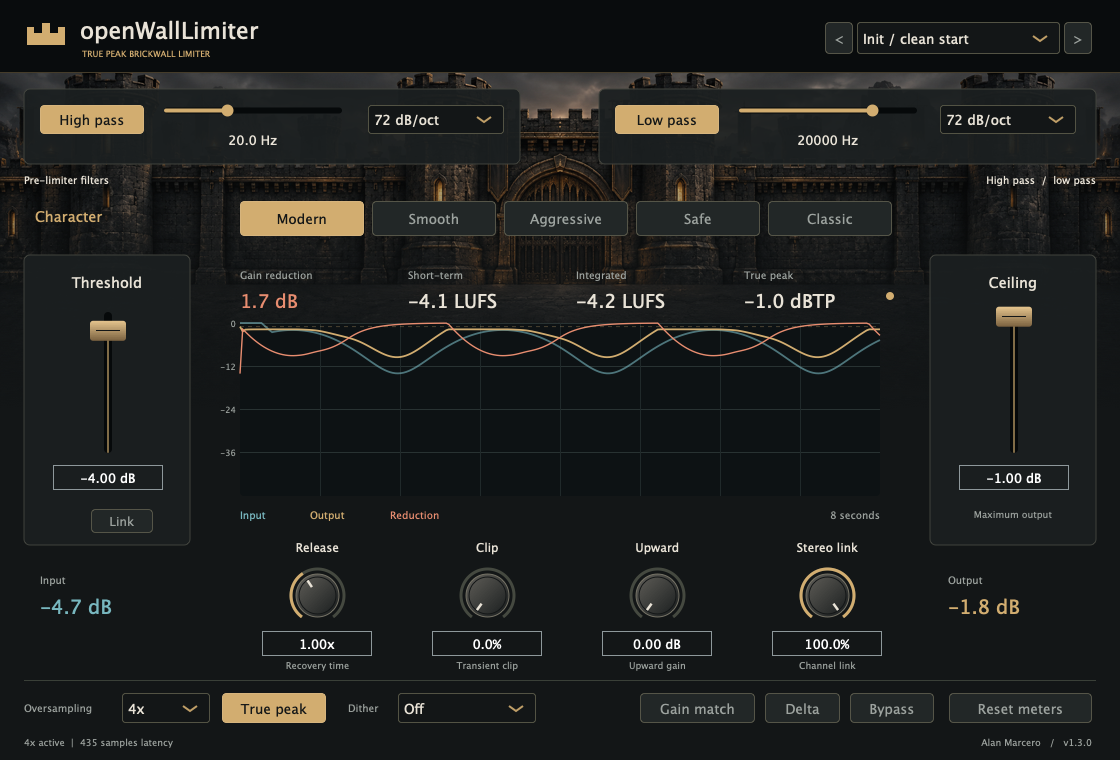
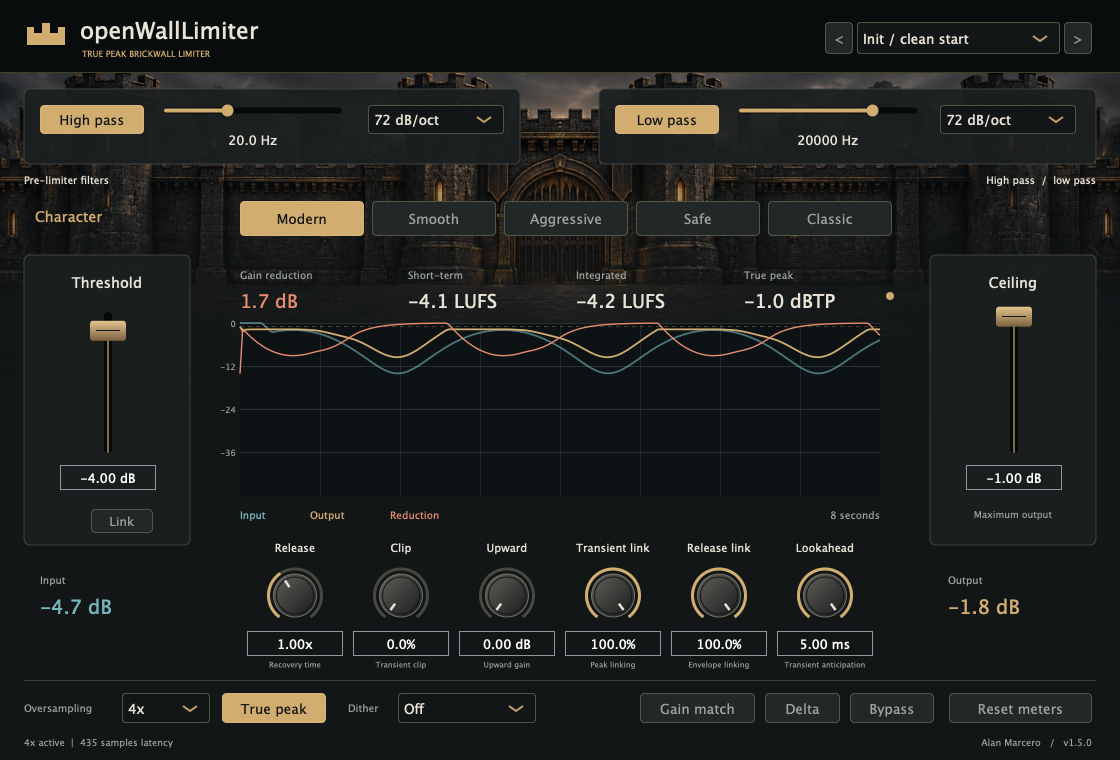
feat: add linked release and lookahead controls

Changed region(s): [[0.2188, 0.6961, 0.7812, 0.8776]]

diff --git a/Source/Plugin/PluginEditor.cpp b/Source/Plugin/PluginEditor.cpp
@@ -107,7 +107,7 @@ void WallEditor::slider(const char *id, const char *suffix, bool rotary) {
     s->setComponentID(id);
     s->setName(id);
     s->setSliderStyle(rotary ? juce::Slider::RotaryHorizontalVerticalDrag : juce::Slider::LinearVertical);
-    s->setTextBoxStyle(juce::Slider::TextBoxBelow, false, 110, 25);
+    s->setTextBoxStyle(juce::Slider::TextBoxBelow, false, 96, 25);
     s->setTextValueSuffix(suffix);
     s->setNumDecimalPlacesToDisplay(1);
     s->setDoubleClickReturnValue(true, wallProcessor.parameters.getParameter(id)->convertFrom0to1(
@@ -145,6 +145,8 @@ WallEditor::WallEditor(WallProcessor &p) : AudioProcessorEditor(p), wallProcesso
     slider("clip", "%", true);
     slider("upward", " dB", true);
     slider("stereo_link", "%", true);
+    slider("lookahead_ms", " ms", true);
+    slider("release_link", "%", true);
     slider("highpass_hz", " Hz", false);
     slider("lowpass_hz", " Hz", false);
     for (auto id : {"highpass_hz", "lowpass_hz"})
@@ -164,6 +166,9 @@ WallEditor::WallEditor(WallProcessor &p) : AudioProcessorEditor(p), wallProcesso
     buttons["delta"]->setTooltip("Listen to processed output minus the latency-aligned original. This "
                                  "monitoring signal can exceed the output ceiling.");
     buttons["gain_match"]->setTooltip("Remove threshold makeup gain for level-matched comparison.");
+    sliders["stereo_link"]->setTooltip("Transient Link blends peak detection across channels before gain reduction.");
+    sliders["release_link"]->setTooltip("Release Link blends each channel's recovery envelope toward shared recovery.");
+    sliders["lookahead_ms"]->setTooltip("Maximum transient anticipation. Each limiter mode's attack window is capped by this value; host latency stays fixed at 5 ms.");
     const std::array<const char *, 5> hints{
         "2.2 ms attack, 20 ms hold. Transients release faster than sustained limiting.",
         "4.5 ms attack, 24 ms hold, and a rounded release stage for transparent dynamics.",
@@ -273,10 +278,12 @@ void WallEditor::resized() {
     sliders["threshold"]->setBounds(53, 300, 110, 190);
     sliders["ceiling"]->setBounds(959, 300, 110, 190);
     link.setBounds(91, 509, 62, 24);
-    sliders["release"]->setBounds(260, 560, 115, 96);
-    sliders["clip"]->setBounds(430, 560, 115, 96);
-    sliders["upward"]->setBounds(600, 560, 115, 96);
-    sliders["stereo_link"]->setBounds(770, 560, 115, 96);
+    sliders["release"]->setBounds(244, 560, 102, 96);
+    sliders["clip"]->setBounds(350, 560, 102, 96);
+    sliders["upward"]->setBounds(456, 560, 102, 96);
+    sliders["stereo_link"]->setBounds(562, 560, 102, 96);
+    sliders["release_link"]->setBounds(668, 560, 102, 96);
+    sliders["lookahead_ms"]->setBounds(774, 560, 102, 96);
     combos["oversampling"]->setBounds(122, 693, 88, 30);
     buttons["true_peak"]->setBounds(222, 693, 104, 30);
     combos["dither"]->setBounds(398, 693, 138, 30);
@@ -385,13 +392,14 @@ void WallEditor::paint(juce::Graphics &g) {
         g.drawEllipse(884.0f, 290.0f, 12.0f, 12.0f, 1.2f);
     }
     drawGraph(g);
-    const std::array<const char *, 4> names{"Release", "Clip", "Upward", "Stereo link"};
-    const std::array<const char *, 4> desc{"Recovery time", "Transient clip", "Upward gain",
-                                           "Channel link"};
-    for (size_t i = 0; i < 4; ++i) {
-        int x = 250 + int(i) * 170;
-        text(g, names[i], {x, 537, 135, 20}, 14, paper, juce::Justification::centred);
-        text(g, desc[i], {x, 656, 135, 17}, 11, muted, juce::Justification::centred);
+    const std::array<const char *, 6> names{"Release", "Clip", "Upward", "Transient link", "Release link",
+                                            "Lookahead"};
+    const std::array<const char *, 6> desc{"Recovery time", "Transient clip", "Upward gain", "Peak linking",
+                                           "Envelope linking", "Transient anticipation"};
+    for (size_t i = 0; i < names.size(); ++i) {
+        const int x = 244 + int(i) * 106;
+        text(g, names[i], {x, 537, 102, 20}, 13, paper, juce::Justification::centred);
+        text(g, desc[i], {x, 656, 102, 17}, 9, muted, juce::Justification::centred);
     }
     text(g, "Input", {40, 570, 70, 20}, 12, muted);
     text(g, reading(wallProcessor.inputDb.load(), " dB"), {40, 592, 140, 28}, 23, blue);

diff --git a/Tests/PluginTests.cpp b/Tests/PluginTests.cpp
@@ -23,6 +23,10 @@ int main(int argc, char **argv) {
         set(p, "true_peak", 0);
         p.prepareToPlay(48000, 256);
         require(p.getLatencySamples() > 0, "lookahead latency missing");
+        const int fixedLatency = p.getLatencySamples();
+        set(p, "lookahead_ms", 0.0f);
+        require(p.getLatencySamples() == fixedLatency, "lookahead automation keeps host latency fixed");
+        set(p, "lookahead_ms", 5.0f);
         juce::AudioBuffer<float> b(2, 256);
         juce::MidiBuffer midi;
         for (int j = 0; j < 100; j++) {
@@ -40,6 +44,8 @@ int main(int argc, char **argv) {
         set(p, "highpass_hz", 37);
         set(p, "lowpass_slope", 4);
         set(p, "mode", 3);
+        set(p, "lookahead_ms", 2.5f);
+        set(p, "release_link", 62.0f);
         juce::MemoryBlock state;
         p.getStateInformation(state);
         WallProcessor restored;
@@ -51,10 +57,36 @@ int main(int argc, char **argv) {
                                  restored.parameters.getParameter(identified->paramID)->getValue()) < 1e-6f,
                     "state recall mismatch");
         }
+        require(std::abs(restored.parameters.getRawParameterValue("lookahead_ms")->load() - 2.5f) < .02f,
+                "lookahead state recall");
+        require(std::abs(restored.parameters.getRawParameterValue("release_link")->load() - 62.0f) < .02f,
+                "release link state recall");
+        auto legacy = p.parameters.copyState();
+        for (int i = legacy.getNumChildren() - 1; i >= 0; --i) {
+            auto child = legacy.getChild(i);
+            const auto id = child.getProperty("id").toString();
+            if (id == "lookahead_ms" || id == "release_link")
+                legacy.removeChild(i, nullptr);
+        }
+        juce::MemoryBlock oldState;
+        if (auto xml = legacy.createXml())
+            p.copyXmlToBinary(*xml, oldState);
+        else
+            throw std::runtime_error("legacy state serialization");
+        WallProcessor migrated;
+        migrated.setStateInformation(oldState.getData(), int(oldState.getSize()));
+        require(std::abs(migrated.parameters.getRawParameterValue("lookahead_ms")->load() - 5.0f) < .02f,
+                "legacy state uses full lookahead");
+        require(std::abs(migrated.parameters.getRawParameterValue("release_link")->load()) < .02f,
+                "legacy state keeps independent release envelopes");
         auto editor = std::unique_ptr<juce::AudioProcessorEditor>(p.createEditor());
         require(editor->getWidth() >= 1000, "editor size");
         checks::controls(p, *editor);
         p.applyPreset(1);
+        require(std::abs(p.parameters.getRawParameterValue("lookahead_ms")->load() - 5.0f) < .02f,
+                "preset restores default lookahead");
+        require(std::abs(p.parameters.getRawParameterValue("release_link")->load() - 100.0f) < .02f,
+                "preset restores default release link");
         juce::File output =
             juce::File::getCurrentWorkingDirectory().getChildFile(argc > 1 ? argv[1] : "docs/screenshots");
         output.createDirectory();

diff --git a/Source/Core/Limiter.cpp b/Source/Core/Limiter.cpp
@@ -122,6 +122,8 @@ void Limiter::setSettings(const Settings& requested) noexcept {
     settings_.clip = bounded(requested.clip, 0, 1, 0);
     settings_.upwardDb = bounded(requested.upwardDb, 0, 12, 0);
     settings_.stereoLink = bounded(requested.stereoLink, 0, 1, 1);
+    settings_.releaseLink = bounded(requested.releaseLink, 0, 1, 0);
+    settings_.lookaheadMs = bounded(requested.lookaheadMs, 0, 5, 5);
     const auto mode = requested.mode >= Mode::Modern && requested.mode <= Mode::Classic
         ? requested.mode : Mode::Modern;
     if (mode != settings_.mode) {
@@ -145,8 +147,9 @@ void Limiter::setSettings(const Settings& requested) noexcept {
     classicStepDb_ = profile.classicDbPerSecond / (sampleRate_ * settings_.release);
     clipDb_ = profile.clipDb * settings_.clip;
     hold_ = static_cast<int>(std::round(sampleRate_ * profile.hold * .001));
-    const auto attack = std::clamp(static_cast<int>(std::round(sampleRate_ * profile.attack * .001)), 1,
-                                   std::max(latency_, 1));
+    const auto profileAttack = static_cast<int>(std::round(sampleRate_ * profile.attack * .001));
+    const auto requestedLookahead = static_cast<int>(std::round(sampleRate_ * settings_.lookaheadMs * .001));
+    const auto attack = std::clamp(std::min(profileAttack, requestedLookahead), 1, std::max(latency_, 1));
     if (attack != attack_ && latency_ > 0) {
         // Two cascaded averages span attack + 1 samples and give an S-shaped gain ramp.
         attack_ = attack;
@@ -227,11 +230,18 @@ void Limiter::process(float* left, float* right, int samples) noexcept {
             target[c] = std::min(1.0, ceiling_ * allowance[c] / std::max(std::abs(input[c]), 1e-30));
         }
         const auto linked = std::min(target[0], target[1]);
+        std::array<double, 2> releaseAmounts{};
         for (int c = 0; c < channelCount_; ++c) {
             auto& channel = channels_[c];
             const auto safeGain = target[c] + settings_.stereoLink * (linked - target[c]);
             const auto held = channel.minimum.push(safeGain, time_, window);
-            const auto envelope = dbGain(-releaseDb(channel, -20 * std::log10(std::max(held, 1e-30))));
+            releaseAmounts[c] = releaseDb(channel, -20 * std::log10(std::max(held, 1e-30)));
+        }
+        const auto sharedRelease = channelCount_ == 2 ? std::max(releaseAmounts[0], releaseAmounts[1]) : releaseAmounts[0];
+        for (int c = 0; c < channelCount_; ++c) {
+            auto& channel = channels_[c];
+            const auto linkedRelease = releaseAmounts[c] + settings_.releaseLink * (sharedRelease - releaseAmounts[c]);
+            const auto envelope = dbGain(-linkedRelease);
             channel.gains[time_ % gainWindow] = channel.second.push(channel.first.push(envelope));
             const auto gain = channel.gains[(time_ + gainWindow - gainDelay) % gainWindow];
             minimumGain = std::min(minimumGain, gain);

diff --git a/Tests/LimiterTests.cpp b/Tests/LimiterTests.cpp
@@ -124,6 +124,28 @@ void stereo() {
     require(left == mono && right == mono, "dual mono matches mono");
 }
 
+void stereoReleaseLink() {
+    auto renderRight = [](float releaseLink) {
+        wall::Settings settings;
+        settings.mode = wall::Mode::Smooth;
+        settings.ceilingDb = -6;
+        settings.stereoLink = 0;
+        settings.releaseLink = releaseLink;
+        wall::Limiter limiter;
+        limiter.prepare(48000, 2);
+        limiter.setSettings(settings);
+        std::vector<float> left(8000, 0), right(8000, .2f);
+        left[2000] = 4;
+        limiter.process(left.data(), right.data(), static_cast<int>(left.size()));
+        return right;
+    };
+    const auto independent = renderRight(0);
+    const auto linked = renderRight(1);
+    const auto peakOutput = static_cast<std::size_t>(2000 + 240);
+    require(std::abs(independent[peakOutput] - .2f) < 1e-6f, "independent release leaves the quiet channel alone");
+    require(linked[peakOutput] < independent[peakOutput] * .9f, "release link shares the other channel's recovery attenuation");
+}
+
 void silenceInvalidAndAllocation() {
     wall::Limiter limiter;
     limiter.prepare(48000, 2);
@@ -146,6 +168,8 @@ void silenceInvalidAndAllocation() {
     s.clip = -100;
     s.upwardDb = nan;
     s.stereoLink = inf;
+    s.releaseLink = inf;
+    s.lookaheadMs = inf;
     s.mode = static_cast<wall::Mode>(999);
     allocations = 0;
     countAllocations = true;
@@ -229,6 +253,9 @@ void anticipatedGainIsSmooth() {
     for (int i = 1001; i < 1000 + latency; ++i)
         largestStep = std::max(largestStep, std::abs(output[i] - output[i - 1]));
     require(largestStep < .002f, "lookahead gain changes smoothly across anticipation");
+    s.lookaheadMs = 0;
+    const auto noLookahead = render(input, s);
+    require(noLookahead[1000 + latency / 4] > .0999f, "zero lookahead does not pre-attenuate the audio before a transient");
 }
 
 void sustainedBassStaysClean() {
@@ -274,6 +301,8 @@ void lowCeilingAndAutomation() {
         s.release = block % 2 ? .1f : 10;
         s.upwardDb = static_cast<float>(block % 13);
         s.stereoLink = static_cast<float>(block % 5) * .25f;
+        s.releaseLink = static_cast<float>(block % 5) * .25f;
+        s.lookaheadMs = static_cast<float>(block % 6);
         s.clip = static_cast<float>(block % 11) * .1f;
         for (std::size_t i = 0; i < left.size(); ++i) {
             random = random * 1664525u + 1013904223u;
@@ -386,6 +415,7 @@ int main() {
     ceilingAndLatency();
     partitionAndReset();
     stereo();
+    stereoReleaseLink();
     silenceInvalidAndAllocation();
     driveUpwardModesAndRelease();
     anticipatedGainIsSmooth();

diff --git a/Source/Plugin/PluginProcessor.cpp b/Source/Plugin/PluginProcessor.cpp
@@ -4,10 +4,11 @@
 #include <cmath>
 
 namespace {
-constexpr std::array<const char *, 19> ids{
+constexpr std::array<const char *, 21> ids{
     "threshold",      "ceiling",     "mode",       "release",       "clip",      "upward", "stereo_link",
     "oversampling",   "true_peak",   "dither",     "gain_match",    "delta",     "bypass", "highpass_hz",
-    "highpass_slope", "highpass_on", "lowpass_hz", "lowpass_slope", "lowpass_on"};
+    "highpass_slope", "highpass_on", "lowpass_hz", "lowpass_slope", "lowpass_on", "lookahead_ms",
+    "release_link"};
 float db(float x) {
     return juce::Decibels::gainToDecibels(x, -100.f);
 }
@@ -179,6 +180,8 @@ void WallProcessor::processChunk(juce::AudioBuffer<float> &buffer, int offset, i
     settings.clip = value(4) * .01f;
     settings.upwardDb = value(5);
     settings.stereoLink = value(6) * .01f;
+    settings.lookaheadMs = value(19);
+    settings.releaseLink = value(20) * .01f;
     int requested = std::clamp(int(value(7)), 0, 4);
     if (tp)
         requested = std::max(2, requested);
@@ -264,6 +267,18 @@ void WallProcessor::getStateInformation(juce::MemoryBlock &dest) {
 void WallProcessor::setStateInformation(const void *data, int size) {
     if (auto xml = getXmlFromBinary(data, size); xml && xml->hasTagName(parameters.state.getType())) {
         auto incoming = juce::ValueTree::fromXml(*xml);
+        if (!incoming.getChildWithProperty("id", "lookahead_ms").isValid()) {
+            juce::ValueTree child("PARAM");
+            child.setProperty("id", "lookahead_ms", nullptr);
+            child.setProperty("value", 5.0f, nullptr);
+            incoming.addChild(child, -1, nullptr);
+        }
+        if (!incoming.getChildWithProperty("id", "release_link").isValid()) {
+            juce::ValueTree child("PARAM");
+            child.setProperty("id", "release_link", nullptr);
+            child.setProperty("value", 0.0f, nullptr);
+            incoming.addChild(child, -1, nullptr);
+        }
         for (auto *parameter : getParameters())
             if (auto *p = dynamic_cast<juce::RangedAudioParameter *>(parameter)) {
                 auto child = incoming.getChildWithProperty("id", p->paramID);

diff --git a/Source/Plugin/Parameters.cpp b/Source/Plugin/Parameters.cpp
@@ -20,7 +20,7 @@ juce::AudioProcessorValueTreeState::ParameterLayout parameterLayout() {
     number("release", "Release", .1f, 10, .01f, 1, .4f, "x");
     number("clip", "Clip", 0, 100, .1f, 0, 1, "%");
     number("upward", "Upward", 0, 10, .01f, 0, 1, "dB");
-    number("stereo_link", "Stereo Link", 0, 100, .1f, 100, 1, "%");
+    number("stereo_link", "Transient Link", 0, 100, .1f, 100, 1, "%");
     choice("oversampling", "Oversampling", {"Off", "2x", "4x", "8x", "16x"}, 2);
     boolean("true_peak", "True Peak", true);
     choice("dither", "Dither", {"Off", "24-bit TPDF", "16-bit TPDF"}, 0);
@@ -33,6 +33,8 @@ juce::AudioProcessorValueTreeState::ParameterLayout parameterLayout() {
     number("lowpass_hz", "Low Pass Frequency", 8000, 24000, 10, 20000, 1, "Hz");
     choice("lowpass_slope", "Low Pass Slope", slopeNames, 3);
     boolean("lowpass_on", "Low Pass", true);
+    number("lookahead_ms", "Lookahead", 0, 5, .01f, 5, 1, "ms");
+    number("release_link", "Release Link", 0, 100, .1f, 100, 1, "%");
     return layout;
 }
 } // namespace wall

diff --git a/Tests/HostChecks.h b/Tests/HostChecks.h
@@ -242,8 +242,8 @@ inline juce::Component *find(juce::Component &root, const juce::String &id) {
     return nullptr;
 }
 inline void controls(WallProcessor &p, juce::AudioProcessorEditor &editor) {
-    for (auto id :
-         {"threshold", "ceiling", "release", "clip", "upward", "stereo_link", "highpass_hz", "lowpass_hz"}) {
+    for (auto id : {"threshold", "ceiling", "release", "clip", "upward", "stereo_link", "lookahead_ms",
+                    "release_link", "highpass_hz", "lowpass_hz"}) {
         auto *s = dynamic_cast<juce::Slider *>(find(editor, id));
         require(s, id);
         s->setValue(s->getMinimum() + (s->getMaximum() - s->getMinimum()) * .37, juce::sendNotificationSync);

diff --git a/Source/Plugin/PluginProcessor.h b/Source/Plugin/PluginProcessor.h
@@ -53,7 +53,7 @@ class WallProcessor final : public juce::AudioProcessor {
         float nativeLatency = 0;
     };
     std::array<Path, 5> paths;
-    std::array<std::atomic<float> *, 19> values{};
+    std::array<std::atomic<float> *, 21> values{};
     float value(size_t i) const noexcept { return values[i]->load(std::memory_order_relaxed); }
     void process(juce::AudioBuffer<float> &, bool);
     void processChunk(juce::AudioBuffer<float> &, int, int, bool);

diff --git a/Source/Core/Limiter.h b/Source/Core/Limiter.h
@@ -16,6 +16,8 @@ struct Settings {
     float clip = 0;
     float upwardDb = 0;
     float stereoLink = 1;
+    float releaseLink = 0;
+    float lookaheadMs = 5;
     Mode mode = Mode::Modern;
 };
 

diff --git a/README.md b/README.md
@@ -10,7 +10,7 @@ A mastering limiter with five characters, pre-limiter high-pass and low-pass fil
 
 1. Set the **High pass** and **Low pass** filters. Their ranges, slopes and defaults match [openMaster](https://github.com/alanmarcero/openMaster): 10–200 Hz and 8–24 kHz, with 12/24/48/72/96 dB/oct Butterworth slopes. Click either filter's button to bypass it. Filters run before input drive and limiting.
 2. Lower **Threshold** to push the mix into limiting, and set **Ceiling** for the output peak level. **Link** moves the two faders together when dragging.
-3. Choose **Modern**, **Smooth**, **Aggressive**, **Safe**, or **Classic**. Adjust **Release**, **Clip**, **Upward**, and **Stereo link** to taste.
+3. Choose **Modern**, **Smooth**, **Aggressive**, **Safe**, or **Classic**. Adjust **Release**, **Clip**, **Upward**, **Transient link**, **Release link**, and **Lookahead** to taste.
 4. Enable **True peak** to add post-downsampling reconstructed-peak protection. Choose oversampling up to 16x. True peak always uses at least 4x, even when the menu is set lower; the footer shows the active factor.
 5. Compare with **Gain match** or audition what changed with **Delta**. Reset the loudness/peak measurement when starting a new pass.
 
@@ -24,7 +24,7 @@ Double-click a knob/fader to restore its default, or type a precise value. Param
 | Safe | Clean under heavy limiting. Full attack, long hold, slow release and no intentional clipping. |
 | Classic | Steady and familiar. The release recovers at a constant 40 dB per second. |
 
-**Upward** lifts quiet, audible material with a gate at very low levels. **Stereo link** blends independent channel detection toward shared gain reduction. The final true-peak guard is fully linked to preserve the stereo image. **Clip** lets transients clip instead of pulling the gain down. Sustained limiting shrinks the allowance, so held notes and bass stay clean. Clip has no effect in Safe mode.
+**Upward** lifts quiet, audible material with a gate at very low levels. **Transient link** blends peak detection across channels before gain reduction; **Release link** blends the channels' recovery envelopes independently, so stereo peaks can stay more independent while their tails remain centered. Both default to 100% to preserve the previous fully linked behavior. The final true-peak guard is fully linked to preserve the stereo image. **Lookahead** caps each mode's transient anticipation from 0 to 5 ms. The host-reported latency remains fixed at 5 ms, so automation does not change plug-in delay compensation. **Clip** lets transients clip instead of pulling the gain down. Sustained limiting shrinks the allowance, so held notes and bass stay clean. Clip has no effect in Safe mode.
 
 The meter panel includes short-term and gated integrated LUFS, maximum estimated true peak, sample input/output peaks, gain reduction and an eight-second history. Short-term LUFS needs three seconds of audio. The gain-reduction readout describes the main limiter envelope, excluding clipping, upward gain and the final true-peak guard. Peak and loudness meters read the selected monitoring output.
 
@@ -48,6 +48,8 @@ The signal path is:
 `high pass → low pass → oversampling → threshold drive/upward → lookahead limiter/clip → downsampling → true-peak guard → dither → monitoring`
 
 The limiter delays audio by 5 ms. Each character's attack uses up to that lookahead. All oversampling paths are padded to one fixed reported latency, with another 128 samples for the final guard. Oversampling changes warm the new path and crossfade for 20 ms. CPU use rises temporarily during that transition. Buffers are allocated in preparation, outside the audio callback.
+
+Lookahead automation changes the effective attack window inside the fixed 5 ms delay. Sessions created before 1.5 load with 5 ms lookahead; their existing `stereo_link` automation remains attached to Transient Link, and Release Link starts at 0% to preserve independent per-channel recovery.
 
 True-peak protection uses an eight-phase, 96-tap windowed-sinc detector **after** downsampling, followed by finite lookahead gain smoothing and a 0.3 dB reconstruction reserve. The main limiter limits to the same reserve, so the guard only removes reconstruction overshoot. Tests independently reconstruct output at 16 phases with 64 taps. Metering uses a separate 4x FIR estimate. These are practical finite-filter estimates, not a guarantee about every possible DAC/reconstruction filter or lossy encoder. Use suitable delivery headroom and check your final encoded master.
 

diff --git a/docs/COMMERCIAL_RESEARCH.md b/docs/COMMERCIAL_RESEARCH.md
@@ -1,0 +1,20 @@
+# Commercial feature research
+
+## FabFilter Pro-L 2
+
+Official references:
+
+- [Pro-L 2 overview](https://www.fabfilter.com/help/pro-l): lists adjustable lookahead and separate channel-link settings for transients and release.
+- [Advanced settings](https://www.fabfilter.com/help/pro-l/using/advancedsettings): describes lookahead as control of the initial transient stage and a separate Release channel-link control.
+
+The comparison identified three controls that openWallLimiter did not expose independently:
+
+1. **Adjustable lookahead** — Pro-L 2 exposes lookahead for its initial transient stage. openWallLimiter now offers 0–5 ms while retaining its fixed 5 ms host-reported latency.
+2. **Transient channel link** — Pro-L 2 separates transient linking from release linking. openWallLimiter's existing `stereo_link` parameter now has the clearer display name **Transient Link** while retaining the same stable parameter ID and behavior.
+3. **Release channel link** — a new independent **Release Link** control blends each channel's recovery toward shared release behavior. Its default is 100%, matching the prior linked envelope feel.
+
+These controls are inspired by the documented workflow and control separation. The DSP and interface are original and are not intended to emulate FabFilter's limiter algorithms.
+
+## State and automation compatibility
+
+The existing `stereo_link` parameter ID is unchanged, preserving host automation. When an older session has no `lookahead_ms`, it loads at 5 ms. When it has no `release_link`, that control loads at 0% so old sessions retain their former independent release envelopes; new sessions default both link controls to 100%.

diff --git a/docs/RELEASE_NOTES.md b/docs/RELEASE_NOTES.md
@@ -1,3 +1,11 @@
+# openWallLimiter 1.5.0
+
+- Added adjustable 0–5 ms lookahead without changing the fixed host latency.
+- Renamed Stereo Link to Transient Link while retaining its automation ID and behavior.
+- Added independent Release Link control for stereo recovery envelopes.
+- Older sessions load with 5 ms lookahead and independent release envelopes.
+- Added slider, DSP, state migration, and native editor screenshot checks.
+
 # openWallLimiter 1.1.4
 
 Substantial sound quality improvements across all five limiter algorithms:
